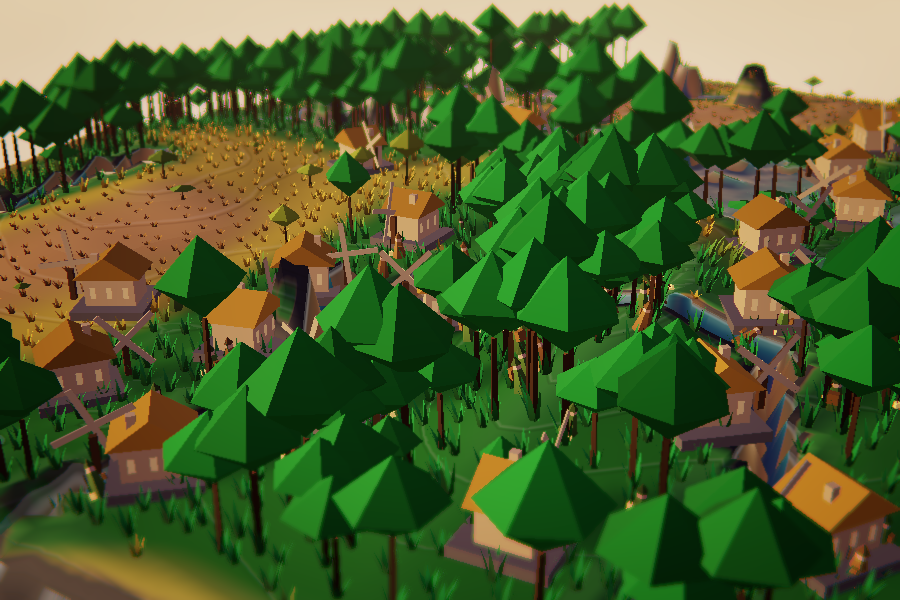
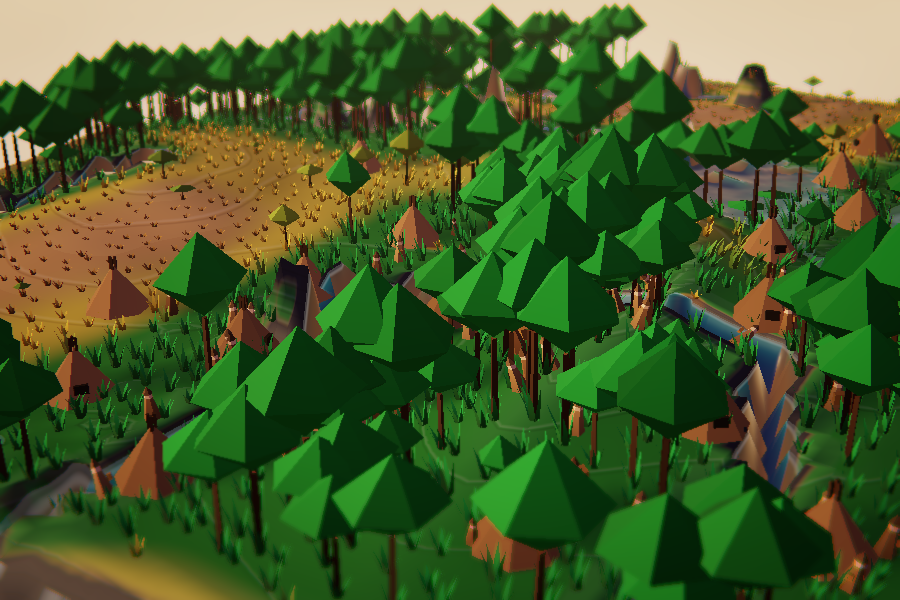
Phase 5a visuals match the plan: hide shelters for society homes, hides and no lanterns before Ritual; fix villager walk phase never reaching the shader

diff --git a/dist/index.html b/dist/index.html
@@ -1793,7 +1793,8 @@ varying float vShade;
 uniform sampler2D uSimTexC;
 uniform float uNight;
 bool isPid(float pid, float id) { return abs(pid - id) < 0.5; }
-float partVis(float pid, float kind, float wP, float wI, float wM) {
+float partVis(float pid, float kind, float stage, float wP, float wI, float wM) {
+  if (kind < 0.5 && stage < 0.5) return (isPid(pid, 25.0) || isPid(pid, 26.0) || isPid(pid, 27.0)) ? 1.0 : 0.0;   // hide shelter
   if (isPid(pid, 0.0)) return kind < 0.5 ? 1.0 : 0.0;
   if (kind < 0.5) {
     if (isPid(pid, 1.0) || isPid(pid, 2.0) || isPid(pid, 5.0) || isPid(pid, 13.0)) return wP;
@@ -1830,6 +1831,9 @@ vec3 partColor(float pid, float hv) {
   if (isPid(pid, 16.0)) return lin(vec3(0.50, 0.47, 0.42) * (0.8 + 0.4 * hv));
   if (isPid(pid, 23.0)) return lin(vec3(0.30, 0.29, 0.32) * (0.85 + 0.3 * hv));
   if (isPid(pid, 24.0)) return lin(vec3(0.40, 0.38, 0.38));
+  if (isPid(pid, 25.0)) return lin(vec3(0.60, 0.45, 0.30) * (0.85 + 0.3 * hv));
+  if (isPid(pid, 26.0)) return lin(vec3(0.30, 0.21, 0.13));
+  if (isPid(pid, 27.0)) return lin(vec3(0.17, 0.12, 0.08));
   return lin(vec3(0.18, 0.16, 0.15));
 }
 `;
@@ -1853,7 +1857,7 @@ const GLSL_STRUCT_POS = /* glsl */`
   float wI = 1.0 - smoothstep(-0.45, -0.25, bias);
   float wM = smoothstep(0.25, 0.45, bias);
   float wP = clamp(1.0 - wI - wM, 0.0, 1.0);
-  float vis = partVis(pid, kind, wP, wI, wM);
+  float vis = partVis(pid, kind, aKind.w, wP, wI, wM);
   float hv = hash12(sBase.xz * 13.1 + pid);
 
   vec3 lp = position;
@@ -1874,7 +1878,7 @@ const GLSL_STRUCT_POS = /* glsl */`
     float ta = hash12(sBase.xz * 7.1) * 6.283;
     vec2 ax = vec2(cos(ta), sin(ta));
     lp.xz += ax * lp.y * decay * 0.35;
-    if (isPid(pid, 2.0) || isPid(pid, 3.0)) { lp.y -= decay * 0.12; lp.xz += ax * decay * 0.1; }
+    if (isPid(pid, 2.0) || isPid(pid, 3.0) || isPid(pid, 25.0)) { lp.y -= decay * 0.12; lp.xz += ax * decay * 0.1; }
     lp += (vec3(hash12(lp.xz * 31.0), hash12(lp.yz * 29.0 + 1.0), hash12(lp.xy * 27.0 + 2.0)) - 0.5) * 0.045 * decay;
   }
 
@@ -1982,7 +1986,8 @@ vec3 lin2(vec3 c) { return pow(c, vec3(2.2)); }
 `;
 
 const GLSL_VILL_POS = /* glsl */`
-  float role = aInstanceState.x;
+  float cloaked = step(3.5, aInstanceState.x);   // role + 4: cloaks; plain role: hides (home stage < 2)
+  float role = aInstanceState.x - 4.0 * cloaked;
   float cargoKind = floor(aInstanceState.y * 0.5);   // 0 food, 1 timber, 2 stone
   float cargo = aInstanceState.y - cargoKind * 2.0;
   float phase = aInstanceState.z;
@@ -1996,8 +2001,12 @@ const GLSL_VILL_POS = /* glsl */`
     vec3 pivot = vec3(0.0, 0.17, -0.09);
     lp = pivot + (lp - pivot) * clamp(cargo * 1.5, 0.0, 1.0);
   }
+  if (lant < -0.5 && (abs(vpid - 4.0) < 0.5 || abs(vpid - 5.0) < 0.5)) lp = vec3(0.0);   // no lantern before Ritual
   vec3 transformed = lp;
   vec3 cloakC = role < 0.5 ? vec3(0.36, 0.50, 0.24) : role < 1.5 ? vec3(0.62, 0.46, 0.26) : role < 2.5 ? vec3(0.34, 0.42, 0.58) : vec3(0.50, 0.30, 0.66);
+  float hh = fract(sin(float(gl_InstanceID) * 12.9898) * 43758.547);
+  vec3 hideC = mix(vec3(0.46, 0.33, 0.21), vec3(0.66, 0.52, 0.36), hh);   // hides: tan to dark brown per person
+  cloakC = mix(hideC, cloakC, cloaked);
   vec3 vc = cloakC * (0.8 + 0.3 * vyn);
   vec3 vg = vec3(0.0);
   if (abs(vpid - 1.0) < 0.5) vc = vec3(0.86, 0.70, 0.56);
@@ -2261,6 +2270,11 @@ const S = {
   campClearRadius: 1.0, campClearLevel: 0.15,   // trampled grass around homes before Farming (civ secondTick)
 };
 const SOCIETY = Object.freeze(S);
+
+// Home model stage (spec 6): 0 hide shelter, 1 wattle hut, 2 timber cottage (culture archetypes), 3 stone house.
+// A society camp has no know-how yet in 5a, so its homes are hide shelters; the full town shows its cottages.
+// 5b/5d replace this with the highest of Shelter, Woodworking and Stonework known in the home's camp.
+function homeStage(civ, s) { void s; return civ.societyOn === 1 ? 0 : 2; }
 
 function createSocietyArrays(nV, nS) {
   const f = (n) => new Float32Array(n), i32 = (n) => new Int32Array(n).fill(-1);
@@ -3454,6 +3468,14 @@ function createStructureGeometry() {
   // --- common plinth
   kitBox(b, 0, 0.04, 0, 0.64, 0.08, 0.64, 0, yn);
 
+  // --- Hide shelter, home stage 0 (pid 25 hides, 26 poles, 27 door flap)
+  kitPyramid(b, 0, 0.0, 0, 0.3, 0.4, 7, 25, yn, 0.2);
+  for (let k = 0; k < 3; k++) {
+    const a = (k / 3) * Math.PI * 2 + 0.5;
+    kitBox(b, Math.cos(a) * 0.025, 0.42, Math.sin(a) * 0.025, 0.022, 0.11, 0.022, 26, yn);
+  }
+  kitBox(b, 0, 0.08, 0.2, 0.11, 0.15, 0.03, 27, yn);
+
   // --- Pastoral cottage with a windmill (pid 1 wall, 2 thatch, 5 blades, 13 post)
   kitBox(b, 0, 0.21, 0, 0.44, 0.26, 0.36, 1, yn);
   kitRoof(b, 0, 0.34, 0, 0.58, 0.2, 0.46, 2, yn);
@@ -3586,6 +3608,7 @@ function createStructures(caps) {
       const o = i * 4;
       sa[o] = civ.sBias[i]; sa[o + 1] = civ.sBuild[i]; sa[o + 2] = civ.sDecay[i]; sa[o + 3] = civ.sLum[i];
       ka[o] = civ.sKind[i]; ka[o + 1] = civ.sLen[i] > 0 ? civ.sLen[i] : 1; ka[o + 2] = civ.sKind[i] === KIND_MYTH ? civ.sBias[i] : 0;
+      ka[o + 3] = civ.sKind[i] === KIND_DWELLING ? homeStage(civ, i) : 0;
     }
     state.needsUpdate = true; kindAttr.needsUpdate = true;
     mesh.userData.dt = dt;
@@ -3603,7 +3626,7 @@ function createStructures(caps) {
       }
       for (let i = 0; i < n && g < GLOW_N; i++) if (civ.sKind[i] === KIND_MYTH) gl[g++].set(civ.sX[i], civ.sZ[i], 0.7, 0.7 * (1 - 0.7 * civ.sDecay[i]));
       for (let i = 0; i < n && g < GLOW_N; i++) {
-        if (civ.sKind[i] === KIND_DWELLING && civ.sBuild[i] >= 1 && civ.sDecay[i] < 0.5) gl[g++].set(civ.sX[i], civ.sZ[i], 0.8, 0.6 + civ.sLum[i]);
+        if (civ.sKind[i] === KIND_DWELLING && civ.sBuild[i] >= 1 && civ.sDecay[i] < 0.5 && homeStage(civ, i) > 0) gl[g++].set(civ.sX[i], civ.sZ[i], 0.8, 0.6 + civ.sLum[i]);   // hide shelters: no hearth glow before Fire
       }
       for (; g < GLOW_N; g++) gl[g].set(0, 0, 1, 0);
     }
@@ -3631,7 +3654,7 @@ const SIZE = {
 function glslF(x) { return Number.isInteger(x) ? x.toFixed(1) : String(x); }
 
 // ---- gl/villagers.js ----
-// Cloaked figurine: pid 0 cloak, 1 head, 2 hood, 3 cargo bundle, 4 lantern, 5 lantern stick.
+// Figurine: pid 0 cloak (or hides), 1 head, 2 hood, 3 cargo bundle, 4 lantern, 5 lantern stick.
 function createVillagerGeometry() {
   const b = kitNew();
   const yn = (y) => y / 0.42;
@@ -3677,6 +3700,8 @@ function createVillagers(caps) {
   // Orient along velocity, pitch into the slope, bob with the walk cycle (spec 4.2 Pool 3).
   mesh.userData.update = function update(world) {
     const civ = world.civ, elev = world.elev;
+    const cloaks = homeStage(civ, -1) >= 2 ? 4 : 0;   // + 4 on the role: cloaks from stage 2, hides before (spec 6)
+    const lanterns = (civ.gates & GATE_RITUAL) !== 0;   // lanterns come with Ritual
     for (let i = 0; i < n; i++) {
       const x = civ.vX[i], z = civ.vZ[i];
       const gxs = (sampleGrid(elev, x + 0.1, z) - sampleGrid(elev, x - 0.1, z)) / 0.2;
@@ -3699,8 +3724,10 @@ function createVillagers(caps) {
       m.setPosition(pos);
       mesh.setMatrixAt(i, m);
       const o = i * 4;
-      sa[o] = civ.vRole[i]; sa[o + 1] = civ.vCargo[i] + 2 * civ.vCargoKind[i];   // cargo 0..1 + 2 x kind (food / timber / stone) sa[o + 2] = ph;
-      sa[o + 3] = st === ST_PROCESSION ? 1 : civ.vRole[i] === ROLE_MYSTIC ? 0.5 : 0;
+      sa[o] = civ.vRole[i] + cloaks;
+      sa[o + 1] = civ.vCargo[i] + 2 * civ.vCargoKind[i];   // cargo 0..1 + 2 x kind (food / timber / stone)
+      sa[o + 2] = ph;
+      sa[o + 3] = !lanterns ? -1 : st === ST_PROCESSION ? 1 : civ.vRole[i] === ROLE_MYSTIC ? 0.5 : 0;   // -1: no lantern
     }
     mesh.instanceMatrix.needsUpdate = true;
     state.needsUpdate = true;

diff --git a/src/gl/glsl_civ.js b/src/gl/glsl_civ.js
@@ -16,7 +16,8 @@ varying float vShade;
 uniform sampler2D uSimTexC;
 uniform float uNight;
 bool isPid(float pid, float id) { return abs(pid - id) < 0.5; }
-float partVis(float pid, float kind, float wP, float wI, float wM) {
+float partVis(float pid, float kind, float stage, float wP, float wI, float wM) {
+  if (kind < 0.5 && stage < 0.5) return (isPid(pid, 25.0) || isPid(pid, 26.0) || isPid(pid, 27.0)) ? 1.0 : 0.0;   // hide shelter
   if (isPid(pid, 0.0)) return kind < 0.5 ? 1.0 : 0.0;
   if (kind < 0.5) {
     if (isPid(pid, 1.0) || isPid(pid, 2.0) || isPid(pid, 5.0) || isPid(pid, 13.0)) return wP;
@@ -53,6 +54,9 @@ vec3 partColor(float pid, float hv) {
   if (isPid(pid, 16.0)) return lin(vec3(0.50, 0.47, 0.42) * (0.8 + 0.4 * hv));
   if (isPid(pid, 23.0)) return lin(vec3(0.30, 0.29, 0.32) * (0.85 + 0.3 * hv));
   if (isPid(pid, 24.0)) return lin(vec3(0.40, 0.38, 0.38));
+  if (isPid(pid, 25.0)) return lin(vec3(0.60, 0.45, 0.30) * (0.85 + 0.3 * hv));
+  if (isPid(pid, 26.0)) return lin(vec3(0.30, 0.21, 0.13));
+  if (isPid(pid, 27.0)) return lin(vec3(0.17, 0.12, 0.08));
   return lin(vec3(0.18, 0.16, 0.15));
 }
 `;
@@ -76,7 +80,7 @@ export const GLSL_STRUCT_POS = /* glsl */`
   float wI = 1.0 - smoothstep(-0.45, -0.25, bias);
   float wM = smoothstep(0.25, 0.45, bias);
   float wP = clamp(1.0 - wI - wM, 0.0, 1.0);
-  float vis = partVis(pid, kind, wP, wI, wM);
+  float vis = partVis(pid, kind, aKind.w, wP, wI, wM);
   float hv = hash12(sBase.xz * 13.1 + pid);
 
   vec3 lp = position;
@@ -97,7 +101,7 @@ export const GLSL_STRUCT_POS = /* glsl */`
     float ta = hash12(sBase.xz * 7.1) * 6.283;
     vec2 ax = vec2(cos(ta), sin(ta));
     lp.xz += ax * lp.y * decay * 0.35;
-    if (isPid(pid, 2.0) || isPid(pid, 3.0)) { lp.y -= decay * 0.12; lp.xz += ax * decay * 0.1; }
+    if (isPid(pid, 2.0) || isPid(pid, 3.0) || isPid(pid, 25.0)) { lp.y -= decay * 0.12; lp.xz += ax * decay * 0.1; }
     lp += (vec3(hash12(lp.xz * 31.0), hash12(lp.yz * 29.0 + 1.0), hash12(lp.xy * 27.0 + 2.0)) - 0.5) * 0.045 * decay;
   }
 
@@ -205,7 +209,8 @@ vec3 lin2(vec3 c) { return pow(c, vec3(2.2)); }
 `;
 
 export const GLSL_VILL_POS = /* glsl */`
-  float role = aInstanceState.x;
+  float cloaked = step(3.5, aInstanceState.x);   // role + 4: cloaks; plain role: hides (home stage < 2)
+  float role = aInstanceState.x - 4.0 * cloaked;
   float cargoKind = floor(aInstanceState.y * 0.5);   // 0 food, 1 timber, 2 stone
   float cargo = aInstanceState.y - cargoKind * 2.0;
   float phase = aInstanceState.z;
@@ -219,8 +224,12 @@ export const GLSL_VILL_POS = /* glsl */`
     vec3 pivot = vec3(0.0, 0.17, -0.09);
     lp = pivot + (lp - pivot) * clamp(cargo * 1.5, 0.0, 1.0);
   }
+  if (lant < -0.5 && (abs(vpid - 4.0) < 0.5 || abs(vpid - 5.0) < 0.5)) lp = vec3(0.0);   // no lantern before Ritual
   vec3 transformed = lp;
   vec3 cloakC = role < 0.5 ? vec3(0.36, 0.50, 0.24) : role < 1.5 ? vec3(0.62, 0.46, 0.26) : role < 2.5 ? vec3(0.34, 0.42, 0.58) : vec3(0.50, 0.30, 0.66);
+  float hh = fract(sin(float(gl_InstanceID) * 12.9898) * 43758.547);
+  vec3 hideC = mix(vec3(0.46, 0.33, 0.21), vec3(0.66, 0.52, 0.36), hh);   // hides: tan to dark brown per person
+  cloakC = mix(hideC, cloakC, cloaked);
   vec3 vc = cloakC * (0.8 + 0.3 * vyn);
   vec3 vg = vec3(0.0);
   if (abs(vpid - 1.0) < 0.5) vc = vec3(0.86, 0.70, 0.56);

diff --git a/src/gl/structures.js b/src/gl/structures.js
@@ -5,6 +5,7 @@ import { GLSL_STRUCT_PARS, GLSL_STRUCT_NORMAL, GLSL_STRUCT_POS, GLSL_STRUCT_FRAG
 import { kitNew, kitBox, kitFrustum, kitPyramid, kitRoof, kitFinish } from './geomkit.js';
 import { KIND_DWELLING, KIND_MONOLITH, KIND_BRIDGE, KIND_STEPS, KIND_PAVING, KIND_MYTH } from '../sim/civ.js';
 import { TUNING } from '../sim/tuning.js';
+import { homeStage } from '../sim/society.js';
 
 const GLOW_N = 24;
 
@@ -16,6 +17,14 @@ export function createStructureGeometry() {
 
   // --- common plinth
   kitBox(b, 0, 0.04, 0, 0.64, 0.08, 0.64, 0, yn);
+
+  // --- Hide shelter, home stage 0 (pid 25 hides, 26 poles, 27 door flap)
+  kitPyramid(b, 0, 0.0, 0, 0.3, 0.4, 7, 25, yn, 0.2);
+  for (let k = 0; k < 3; k++) {
+    const a = (k / 3) * Math.PI * 2 + 0.5;
+    kitBox(b, Math.cos(a) * 0.025, 0.42, Math.sin(a) * 0.025, 0.022, 0.11, 0.022, 26, yn);
+  }
+  kitBox(b, 0, 0.08, 0.2, 0.11, 0.15, 0.03, 27, yn);
 
   // --- Pastoral cottage with a windmill (pid 1 wall, 2 thatch, 5 blades, 13 post)
   kitBox(b, 0, 0.21, 0, 0.44, 0.26, 0.36, 1, yn);
@@ -149,6 +158,7 @@ export function createStructures(caps) {
       const o = i * 4;
       sa[o] = civ.sBias[i]; sa[o + 1] = civ.sBuild[i]; sa[o + 2] = civ.sDecay[i]; sa[o + 3] = civ.sLum[i];
       ka[o] = civ.sKind[i]; ka[o + 1] = civ.sLen[i] > 0 ? civ.sLen[i] : 1; ka[o + 2] = civ.sKind[i] === KIND_MYTH ? civ.sBias[i] : 0;
+      ka[o + 3] = civ.sKind[i] === KIND_DWELLING ? homeStage(civ, i) : 0;
     }
     state.needsUpdate = true; kindAttr.needsUpdate = true;
     mesh.userData.dt = dt;
@@ -166,7 +176,7 @@ export function createStructures(caps) {
       }
       for (let i = 0; i < n && g < GLOW_N; i++) if (civ.sKind[i] === KIND_MYTH) gl[g++].set(civ.sX[i], civ.sZ[i], 0.7, 0.7 * (1 - 0.7 * civ.sDecay[i]));
       for (let i = 0; i < n && g < GLOW_N; i++) {
-        if (civ.sKind[i] === KIND_DWELLING && civ.sBuild[i] >= 1 && civ.sDecay[i] < 0.5) gl[g++].set(civ.sX[i], civ.sZ[i], 0.8, 0.6 + civ.sLum[i]);
+        if (civ.sKind[i] === KIND_DWELLING && civ.sBuild[i] >= 1 && civ.sDecay[i] < 0.5 && homeStage(civ, i) > 0) gl[g++].set(civ.sX[i], civ.sZ[i], 0.8, 0.6 + civ.sLum[i]);   // hide shelters: no hearth glow before Fire
       }
       for (; g < GLOW_N; g++) gl[g].set(0, 0, 1, 0);
     }

diff --git a/src/gl/villagers.js b/src/gl/villagers.js
@@ -5,10 +5,10 @@ import { kitNew, kitBox, kitFrustum, kitPyramid, kitFinish } from './geomkit.js'
 import { sampleGrid } from '../sim/sample.js';
 import { SIZE } from './scale.js';
 import { ST_PROCESSION, ST_GREET, ROLE_MYSTIC } from '../sim/civ.js';
-import { SOCIETY } from '../sim/society.js';
+import { SOCIETY, GATE_RITUAL, homeStage } from '../sim/society.js';
 import { TUNING } from '../sim/tuning.js';
 
-// Cloaked figurine: pid 0 cloak, 1 head, 2 hood, 3 cargo bundle, 4 lantern, 5 lantern stick.
+// Figurine: pid 0 cloak (or hides), 1 head, 2 hood, 3 cargo bundle, 4 lantern, 5 lantern stick.
 function createVillagerGeometry() {
   const b = kitNew();
   const yn = (y) => y / 0.42;
@@ -54,6 +54,8 @@ export function createVillagers(caps) {
   // Orient along velocity, pitch into the slope, bob with the walk cycle (spec 4.2 Pool 3).
   mesh.userData.update = function update(world) {
     const civ = world.civ, elev = world.elev;
+    const cloaks = homeStage(civ, -1) >= 2 ? 4 : 0;   // + 4 on the role: cloaks from stage 2, hides before (spec 6)
+    const lanterns = (civ.gates & GATE_RITUAL) !== 0;   // lanterns come with Ritual
     for (let i = 0; i < n; i++) {
       const x = civ.vX[i], z = civ.vZ[i];
       const gxs = (sampleGrid(elev, x + 0.1, z) - sampleGrid(elev, x - 0.1, z)) / 0.2;
@@ -76,8 +78,10 @@ export function createVillagers(caps) {
       m.setPosition(pos);
       mesh.setMatrixAt(i, m);
       const o = i * 4;
-      sa[o] = civ.vRole[i]; sa[o + 1] = civ.vCargo[i] + 2 * civ.vCargoKind[i];   // cargo 0..1 + 2 x kind (food / timber / stone) sa[o + 2] = ph;
-      sa[o + 3] = st === ST_PROCESSION ? 1 : civ.vRole[i] === ROLE_MYSTIC ? 0.5 : 0;
+      sa[o] = civ.vRole[i] + cloaks;
+      sa[o + 1] = civ.vCargo[i] + 2 * civ.vCargoKind[i];   // cargo 0..1 + 2 x kind (food / timber / stone)
+      sa[o + 2] = ph;
+      sa[o + 3] = !lanterns ? -1 : st === ST_PROCESSION ? 1 : civ.vRole[i] === ROLE_MYSTIC ? 0.5 : 0;   // -1: no lantern
     }
     mesh.instanceMatrix.needsUpdate = true;
     state.needsUpdate = true;

diff --git a/src/sim/society.js b/src/sim/society.js
@@ -21,6 +21,11 @@ const S = {
 };
 export const SOCIETY = Object.freeze(S);
 
+// Home model stage (spec 6): 0 hide shelter, 1 wattle hut, 2 timber cottage (culture archetypes), 3 stone house.
+// A society camp has no know-how yet in 5a, so its homes are hide shelters; the full town shows its cottages.
+// 5b/5d replace this with the highest of Shelter, Woodworking and Stonework known in the home's camp.
+export function homeStage(civ, s) { void s; return civ.societyOn === 1 ? 0 : 2; }
+
 export function createSocietyArrays(nV, nS) {
   const f = (n) => new Float32Array(n), i32 = (n) => new Int32Array(n).fill(-1);
   return {

diff --git a/docs/SPEC-phase5-society.md b/docs/SPEC-phase5-society.md
@@ -144,6 +144,11 @@ Once per second, per camp, a split happens when **all** of these hold:
 - `villagers.js` writes a zero-scale matrix for slots with `vAlive = 0`. The instance count stays 120, so the audit
   contract (5 InstancedMesh, pool caps) is unchanged.
 - Children render at 0.7 scale.
+- Brought forward from section 6 so a primitive camp never shows later-era things (Jordan, 2026-10-22):
+  `homeStage(civ, s)` (society.js) drives the home model. Society homes are stage 0 hide shelters (no plinth, no
+  hearth glow before Fire); the `?town=1` start stays at stage 2 with its culture archetypes. Villagers wear hides
+  below stage 2, and lanterns appear only once Ritual is open. Stages 1 and 3 (wattle hut, stone house) and role tools
+  still come in 5d, once 5b gives camps know-how to compute a stage from.
 
 ## 4. Know-how (5b)
 
